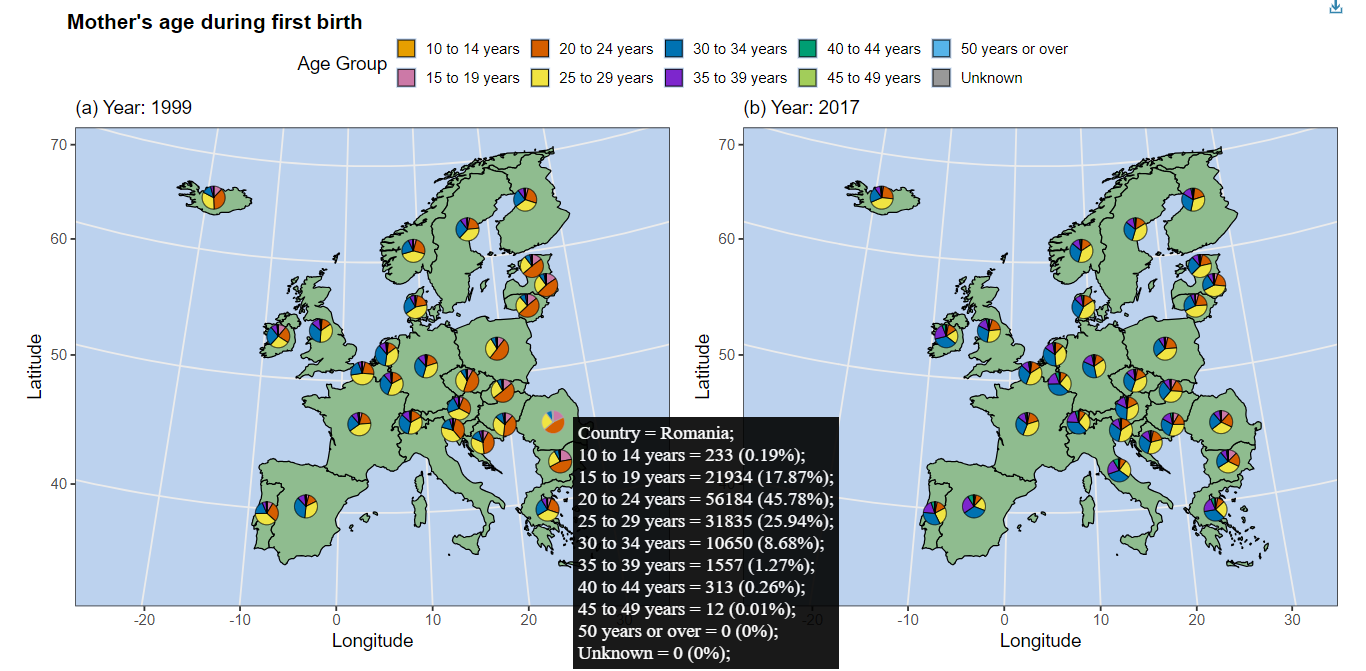
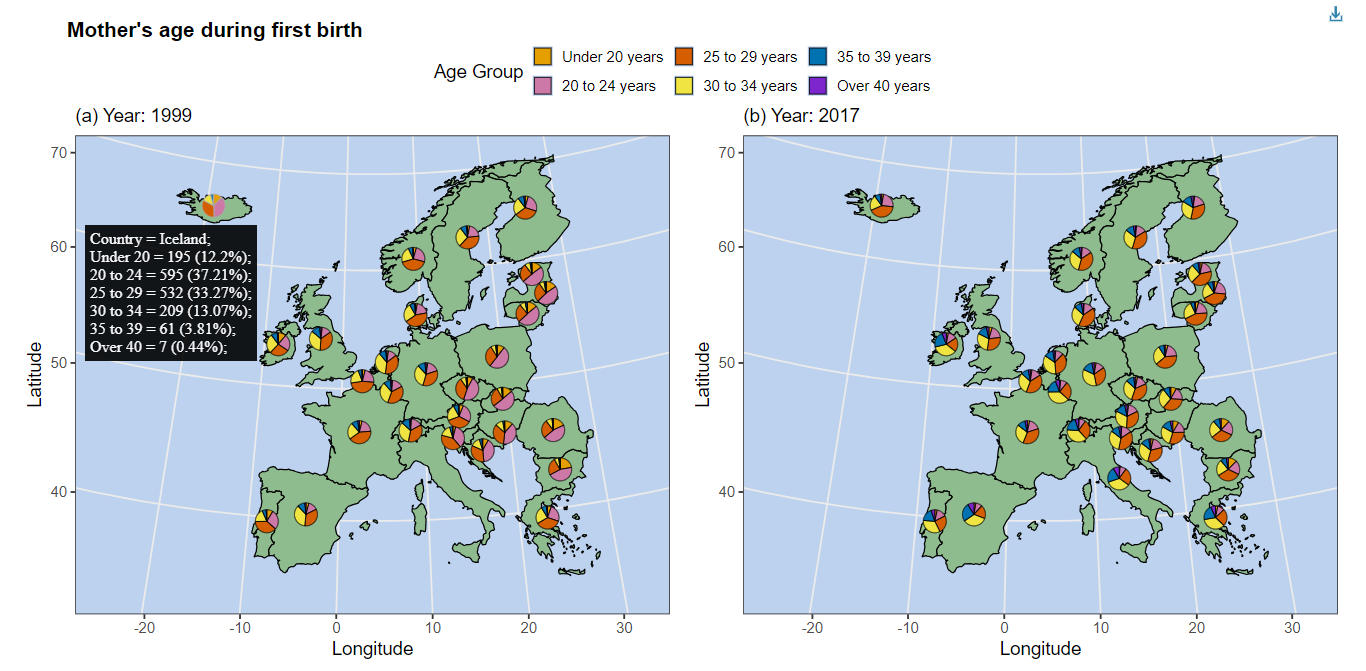
Paper_v4.2

diff --git a/paper/paper.md b/paper/paper.md
@@ -43,9 +43,9 @@ The `PieGlyph` package [@Vishwakarma:2024] developed for `R` software [@RCore:20
 
 Other packages in `R` including `scatterpie` [@Yu:2024] and `ggforce` [@Pedersen:2022] offer functionality for creating pie-glyphs. However, the pie-glyphs created using these functions are linked to the axes of the plot. Thus, the shape of the pie-glyphs changes with the aspect ratio of the plot and stretching the plot in either dimension results in the pie-glyphs getting squished into ellipses (see [vignette](https://rishvish.github.io/PieGlyph/articles/time-series-example.html#:~:text=Problems%20with%20existing%20techniques) for an example). This issue can be solved by creating a separate nested coordinate system for the pie-glyphs within the main coordinate system of the plot, so the pie-charts are independent of the axes on the plot. A primitive solution for achieving this could be to create each pie-glyph as an independent image and superimpose all images on the plot by using the `geom_image_glyph` function from `ggmulti` [@Xu:2024]. However, this would be inefficient from a storage and time perspective. `PieGlyph` creates axis-independent pie-glyphs as native grid objects (grobs) which can be seamlessly integrated with the `ggplot2` machinery without any additional overhead. The created pie-glyphs will always be circles with fixed radii, even as the underlying coordinate system or aspect ratio of the plot changes as they have their separate nested coordinate system. Moreover, this technique can be generalised to create any glyph as independent of the axes of the plot.
 
-A limitation of static pie-chart glyphs is that only the relative proportion of different attributes can be visualised and not their raw counts (where there are associated raw counts). `PieGlyph` accounts for this by providing the option to create interactive pie-glyphs which, when hovered over, show a tooltip highlighting the raw count and percentage of each attribute shown in the pie-glyph. \autoref{fig:fig2} shows an example of such a plot where interactive pie-glyphs are superimposed on the map of Europe to illustrate the breakdown of the ages of mothers at the time of their first birth across different countries in 1999 and 2017. It indicates that, women in Western Europe tend to have a higher age at the time of first birth, compared to women in Eastern Europe. Furthermore, \autoref{fig:fig2} also highlights the trend of an increased age at the time of first birth in 2017 as compared to 1999 across all countries. Hovering over a pie-glyph would show the raw counts and percentages of mothers in each age group in the respective country (illustrated for Romania in 1999 here). This interactivity is incorporated in `PieGlyph` using the `ggiraph` [@Gohel:2024] package. 
+A limitation of static pie-chart glyphs is that only the relative proportion of different attributes can be visualised and not their raw counts (where there are associated raw counts). `PieGlyph` accounts for this by providing the option to create interactive pie-glyphs which, when hovered over, show a tooltip highlighting the raw count and percentage of each attribute shown in the pie-glyph. \autoref{fig:fig2} shows an example of such a plot where interactive pie-glyphs are superimposed on the map of Europe to illustrate the breakdown of the ages of mothers at the time of their first birth across different countries in 1999 and 2017. It indicates that, women in Western Europe tend to have a higher age at the time of first birth, compared to women in Eastern Europe. Furthermore, \autoref{fig:fig2} also highlights the trend of an increased age at the time of first birth in 2017 as compared to 1999 across all countries. Hovering over a pie-glyph would show the raw counts and percentages of mothers in each age group in the respective country (illustrated for Iceland in 1999 here). This interactivity is incorporated in `PieGlyph` using the `ggiraph` [@Gohel:2024] package. 
 
-![ A map of Europe overlayed with pie-glyphs showing the proportion of mothers belonging to particular age group during their first birth in the year 1999 (a) and 2017 (b) in the respective countries. A tooltip is shown highlighting the raw counts in each age group in Romania. The data for this plot is from @birthsdata. \label{fig:fig2}](Figure%202.png){width="97.5%" height="7in"}
+![ A map of Europe overlayed with pie-glyphs showing the proportion of mothers belonging to particular age group during their first birth in the year 1999 (a) and 2017 (b) in the respective countries. A tooltip is shown highlighting the raw counts in each age group in Iceland. The data for this plot is from @birthsdata. \label{fig:fig2}](Figure%202.png){width="97.5%" height="7in"}
 
 
 `PieGlyph` is designed to be flexible with all features and extensions offered by `ggplot2` and `ggiraph`, thereby allowing users to customise every component of the visualisation. It can also be used to effectively present spatial and temporal data, or interpret the results of regression and classification models (see [vignettes](https://rishvish.github.io/PieGlyph/articles/) for additional examples). `PieGlyph` is particularly useful when visualising and interpreting statistical models fit to compositional data as there is a natural sum to one constraint on the data variables. Traditional visualisations like scatterplots, bar-charts, and ternary diagrams can be superimposed with pie-glyphs to convey additional information about the relative proportions of the compositional variables (see examples in, [@Moral:2023; @Finn:2024; @Grange:2024]). 
